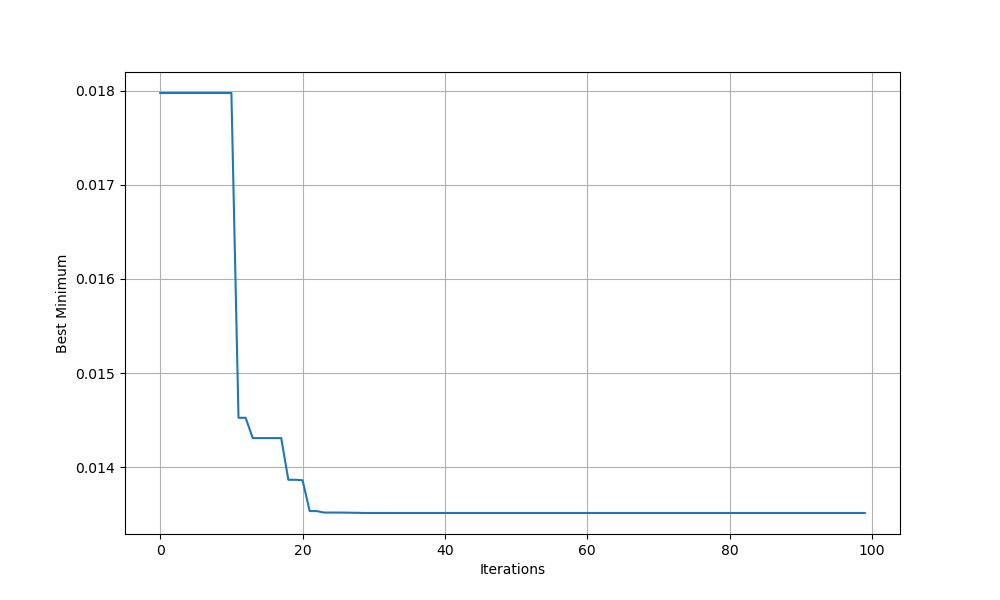
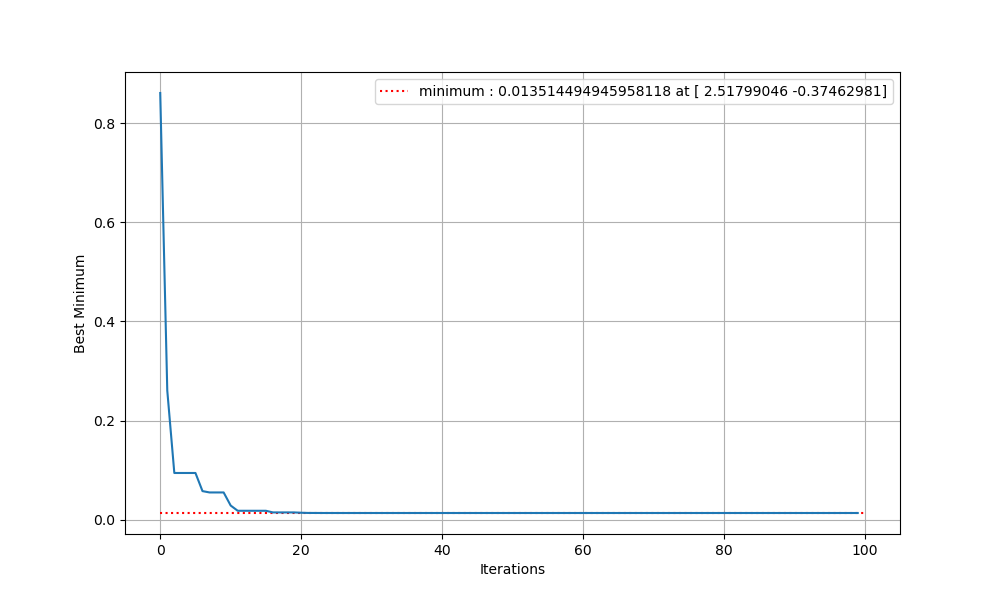
added horizontal line to a plot

diff --git a/PSO.py b/PSO.py
@@ -125,8 +125,10 @@ print(globalBestPosition, globalBestCost)
 # RESULTS
 figure = plt.figure(figsize=(10, 6))
 plt.plot(bestCosts)
+plt.hlines(globalBestCost,0,maxIter,label=f'minimum : {globalBestCost} at {globalBestPosition}',colors='red',linestyles='dotted')
 plt.xlabel('Iterations')
 plt.ylabel('Best Minimum')
 plt.grid('on')
+plt.legend()
 plt.show()
 
